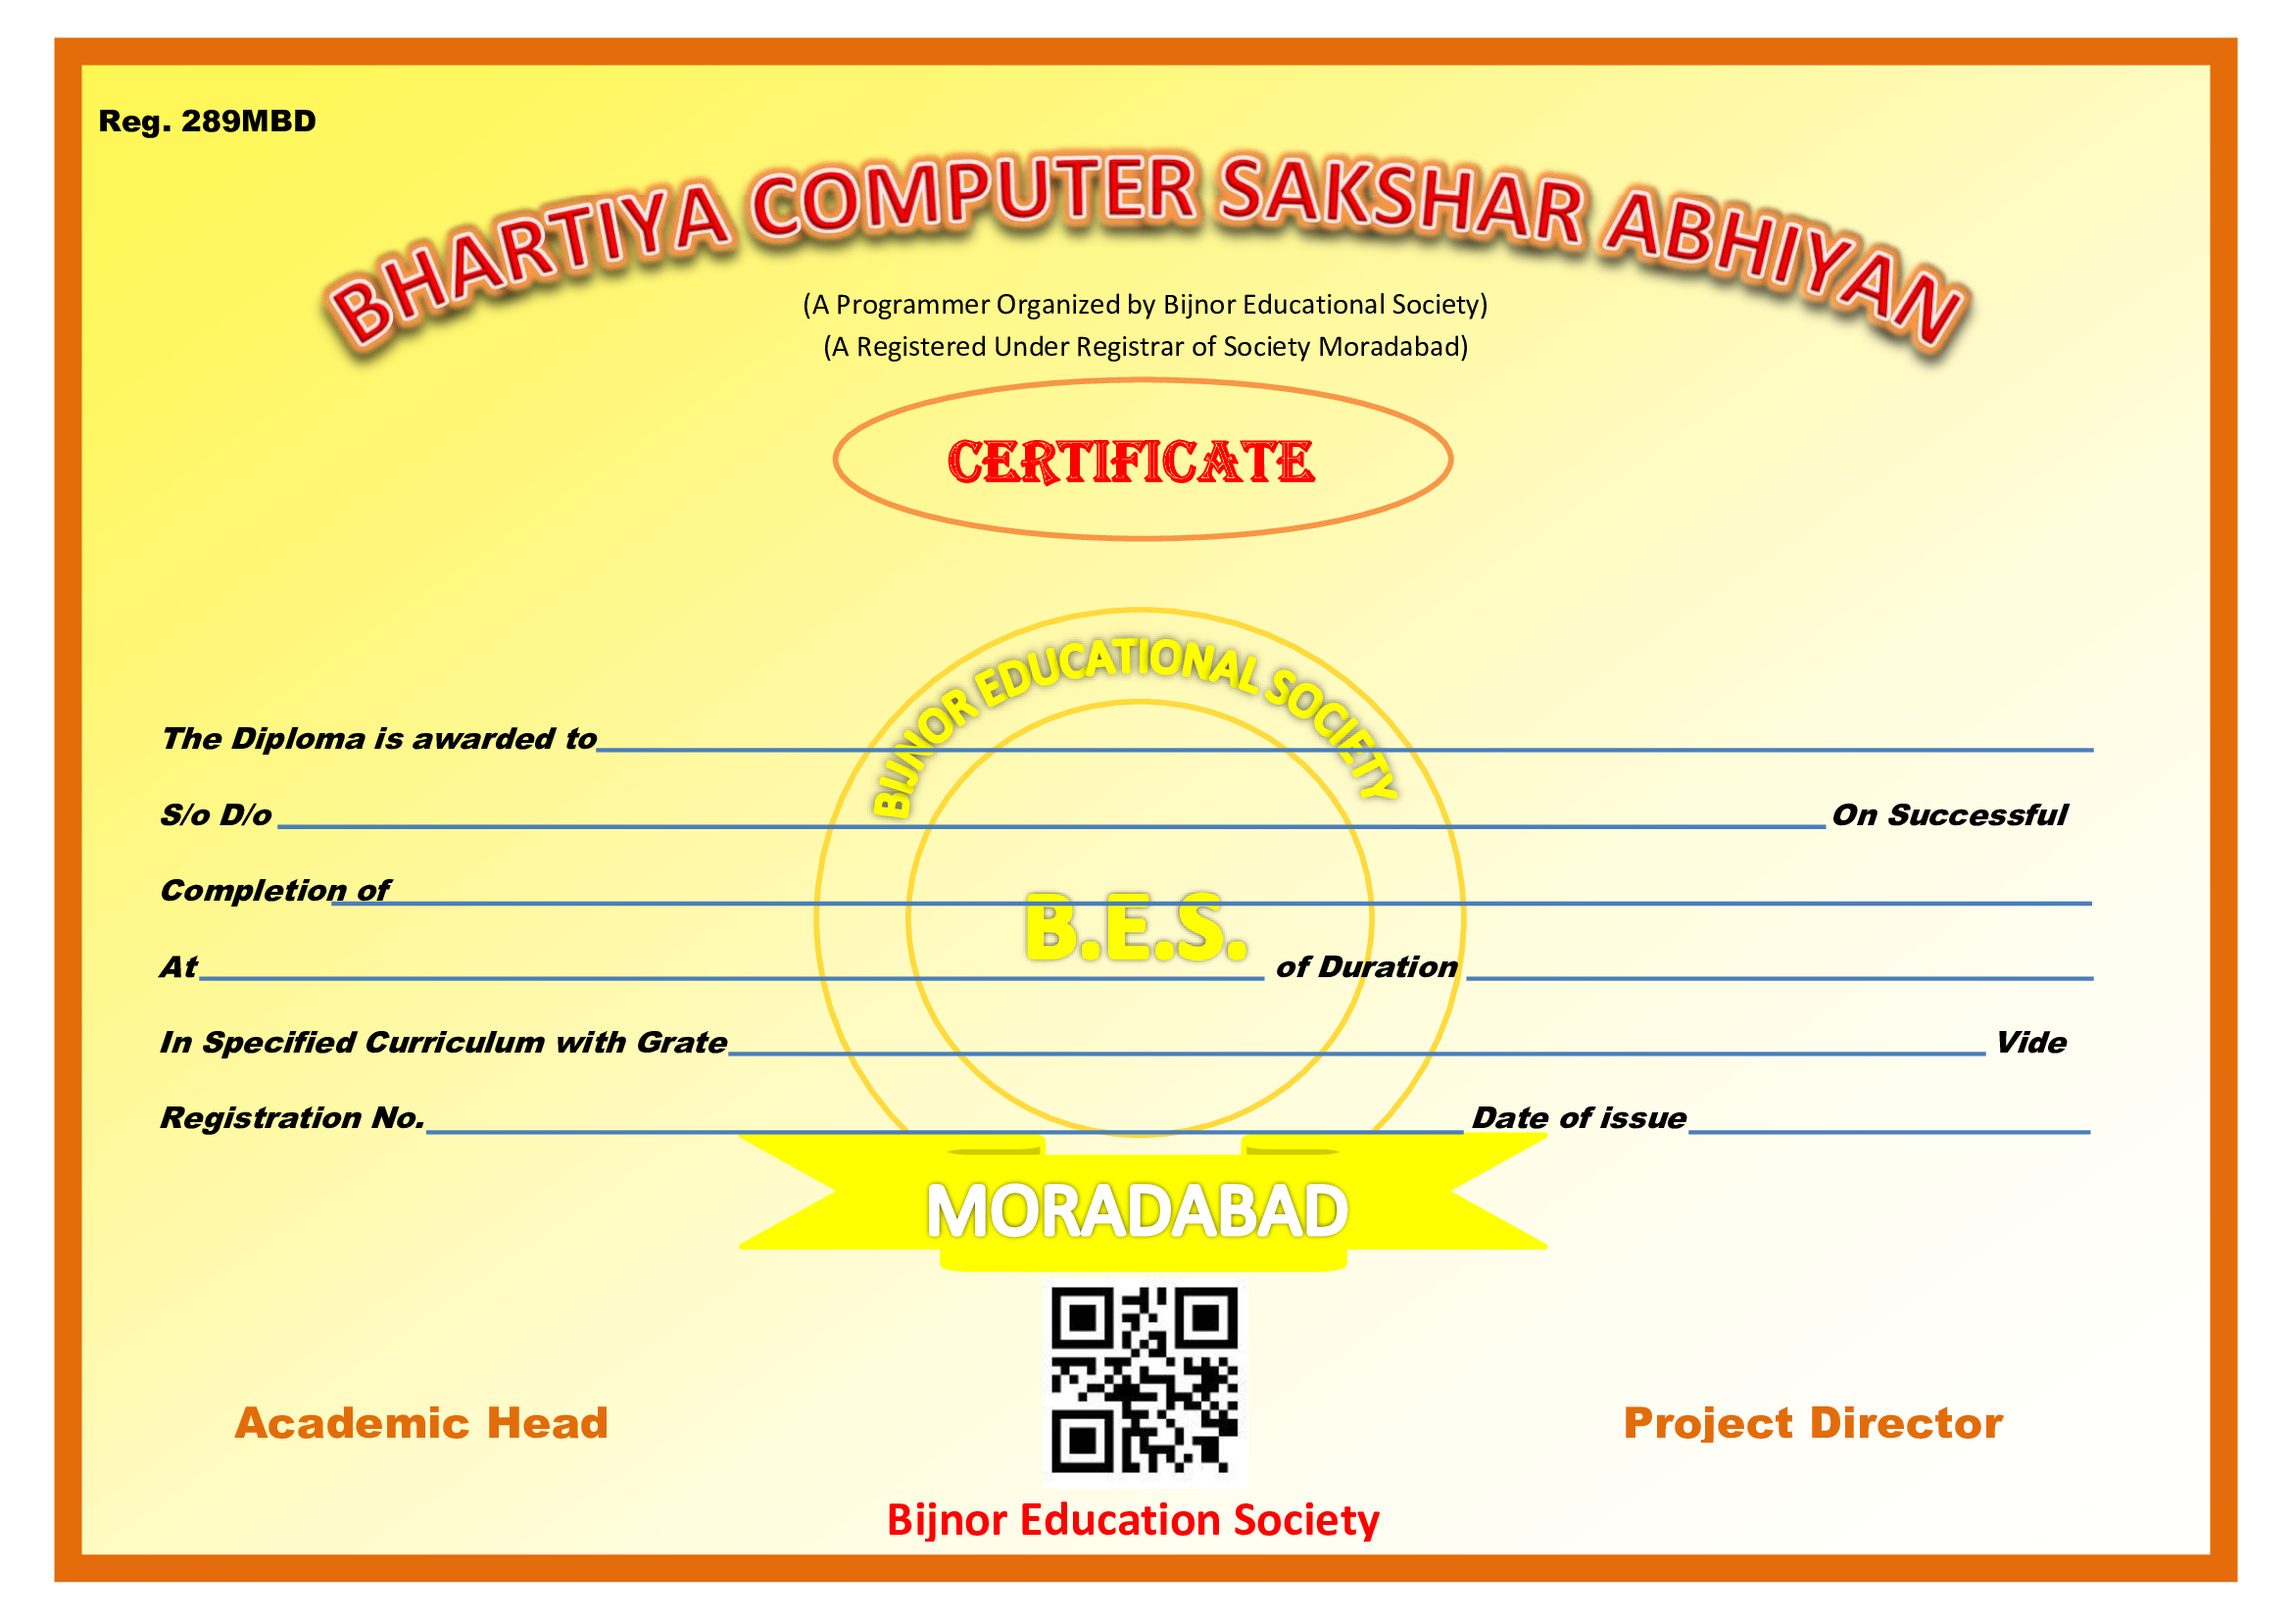
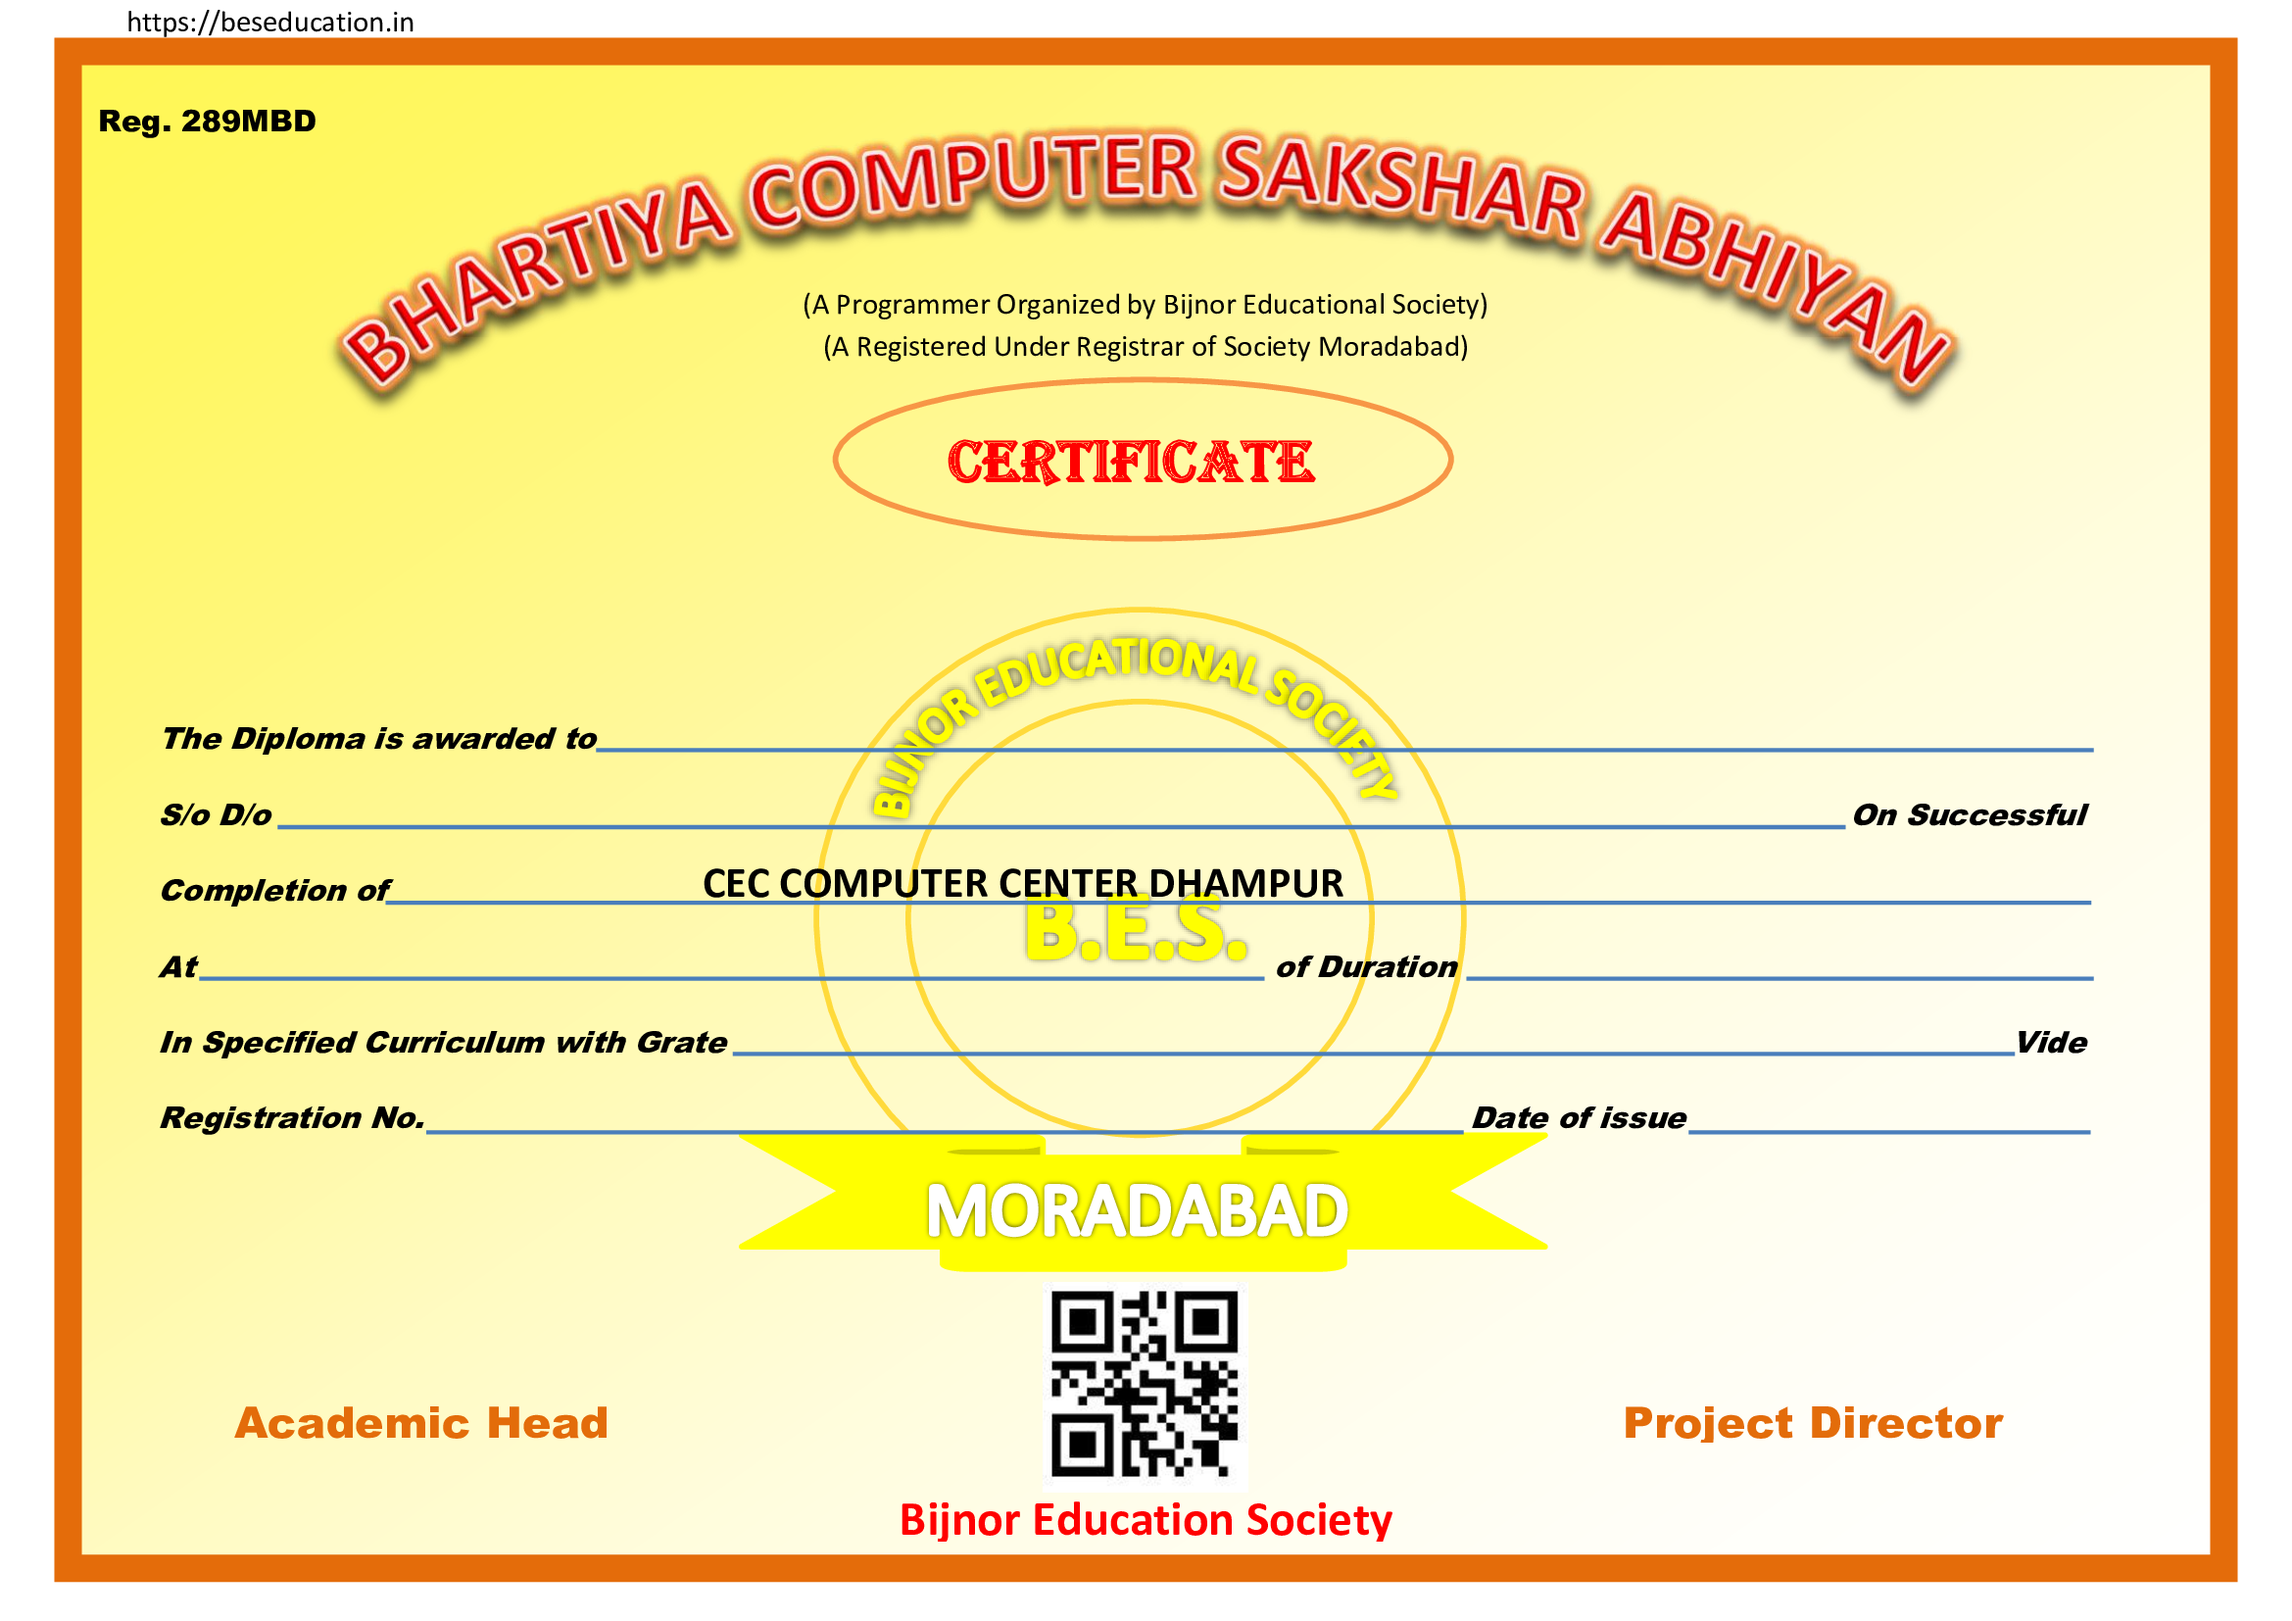
fixed some certificate problem

diff --git a/src/admin/CertificatePage.jsx b/src/admin/CertificatePage.jsx
@@ -45,22 +45,17 @@ export default function CertificatePage() {
         box-sizing: border-box;
           padding: 20px;
       ">
-        <div style="
-          position: absolute;
-          inset: 0;
-          padding: 60px;
-          font-size: 18px;
-          line-height: 1.6;
-          color: black;
-        ">
-          <p>The Diploma is awarded to <strong>${data.name}</strong> on successful completion of <strong>${data.course}</strong>.</p>
-          <p>S/o D/o: <strong>${data.fatherName}</strong></p>
-          <p>At: <strong>${data.center || "CEC COMPUTER CENTER DHAMPUR"}</strong></p>
-          <p>Duration: <strong>${data.duration}</strong></p>
-          <p>Grade: <strong>${data.grade}</strong></p>
-          <p>Registration No: <strong>${data.regNo || id}</strong></p>
-          <p>Date of Issue: <strong>${new Date(data.issueDate).toLocaleDateString("en-GB")}</strong></p>
-        </div>
+        <div style="position: absolute; top: 257px; left: 400px; font-size: 22px; font-weight: bold; font-family: 'Arial Narrow Bold'">${data.name}</div>
+
+        <div style="position: absolute; top: 344px; left: 500px; font-size: 22px; font-weight: bold;">${data.father_name}</div>
+
+        <div style="position: absolute; top: 341px; right: 165px; font-size: 22px; font-weight: bold;">${data.duration}</div>
+
+        <div style="position: absolute; bottom: 206px; left: 435px; font-size: 22px; font-weight: bold" }}>${data.grade}</div>
+
+        <div style="position: absolute; bottom: 179px; left: 300px; font-size: 22px; font-weight: bold;">${data.regNo || id}MBD/11907</div>
+
+        <div style="position: absolute; bottom: 179px; right: 95px; font-size: 22px; font-weight: bold;">${new Date(data.issue_date).toLocaleDateString("en-GB")}</div>
       </div>
     `;
 
@@ -107,7 +102,7 @@ export default function CertificatePage() {
 
   return (
     <div className="p-4">
-      <div className="mt-6 absolute right-[180px] bottom-[50px]">
+      <div className="mt-6 absolute right-[180px] bottom-[100px]">
         <button
           onClick={handlePrint}
           className="bg-blue-600 text-white px-4 py-2 rounded hover:bg-blue-700"
@@ -130,22 +125,13 @@ export default function CertificatePage() {
           boxShadow: "0 0 10px rgba(0,0,0,0.2)",
         }}
       >
-        {/* <div className="absolute inset-0 p-10 text-lg leading-relaxed text-black">
-          <p><strong>{data.name}</strong><strong>{data.course}</strong>.</p>
-          <p><strong>{data.fatherName} veer singh</strong></p>
-          <p><strong>{data.center || "CEC COMPUTER CENTER DHAMPUR"}</strong></p>
-          <p><strong>{data.duration}</strong></p>
-          <p><strong>{data.grade}</strong></p>
-          <p><strong>{data.regNo || id}</strong></p>
-          <p><strong>{new Date(data.issueDate).toLocaleDateString("en-GB")}</strong></p>
-        </div> */}
-        <div style={{ position: "absolute", top: "85px", left: "80px", fontSize: "16px", fontWeight: "bold" }}>{data.name}</div>
-        <div style={{ position: "absolute", top: "115px", left: "80px", fontSize: "16px", fontWeight: "bold" }}>{data.father_name}</div>
-        <div style={{ position: "absolute", top: "145px", left: "80px", fontSize: "16px", fontWeight: "bold" }}>{data.center || "CEC COMPUTER CENTER DHAMPUR"}</div>
-        <div style={{ position: "absolute", top: "175px", left: "80px", fontSize: "16px", fontWeight: "bold" }}>{data.duration}</div>
-        <div style={{ position: "absolute", top: "205px", left: "80px", fontSize: "16px", fontWeight: "bold" }}>{data.grade}</div>
-        <div style={{ position: "absolute", top: "235px", left: "80px", fontSize: "16px", fontWeight: "bold" }}>{data.regNo || id}</div>
-        <div style={{ position: "absolute", top: "265px", left: "80px", fontSize: "16px", fontWeight: "bold" }}>{new Date(data.issue_date).toLocaleDateString("en-GB")}</div>
+        <div style={{ position: "absolute", top: "257px", left: "400px", fontSize: "16px", fontWeight: "bold" }}>{data.name}</div>
+        <div style={{ position: "absolute", top: "285px", left: "230px", fontSize: "16px", fontWeight: "bold" }}>{data.father_name}</div>
+        {/* <div style={{ position: "absolute", top: "145px", left: "80px", fontSize: "16px", fontWeight: "bold" }}>{data.center || "CEC COMPUTER CENTER DHAMPUR"}</div> */}
+        <div style={{ position: "absolute", top: "341px", right: "165px", fontSize: "16px", fontWeight: "bold" }}>{data.duration}</div>
+        <div style={{ position: "absolute", bottom: "206px", left: "435px", fontSize: "16px", fontWeight: "bold" }}>{data.grade}</div>
+        <div style={{ position: "absolute", bottom: "179px", left: "300px", fontSize: "16px", fontWeight: "bold" }}>{data.regNo || id}MBD/11907</div>
+        <div style={{ position: "absolute", bottom: "179px", right: "95px", fontSize: "16px", fontWeight: "bold" }}>{new Date(data.issue_date).toLocaleDateString("en-GB")}</div>
       </div>
     </div>
   );

diff --git a/src/admin/CertificateForm.jsx b/src/admin/CertificateForm.jsx
@@ -23,29 +23,46 @@ export default function CertificateForm() {
         setFormData((prev) => ({ ...prev, [name]: value }));
     };
 
+    // const handleSubmit = async (e) => {
+    //     e.preventDefault();
+    //     try {
+    //         const res = await axios.post("http://localhost:5000/api/certificates", formData, {
+    //             headers: {
+    //                 Authorization: `Bearer ${localStorage.getItem("adminToken")}`,
+    //             },
+    //         });
+    //         const certificateId = res.data.id;
+    //         if (certificateId) {
+    //             navigate(`/admin/certificate/${certificateId}`);
+    //         } else {
+    //             alert("Certificate generated but ID missing in response.");
+    //         }
+    //     } catch (err) {
+    //         console.error(err);
+    //         alert("Failed to generate certificate");
+    //     }
+    // };
     const handleSubmit = async (e) => {
-        e.preventDefault();
-        try {
-            const res = await axios.post("http://localhost:5000/api/certificates", formData, {
-                headers: {
-                    Authorization: `Bearer ${localStorage.getItem("adminToken")}`,
-                },
-            });
-            // console.log("Sending data:", formData);
+  e.preventDefault();
+  try {
+    const res = await axios.post("http://localhost:5000/api/certificates", formData, {
+      headers: {
+        Authorization: `Bearer ${localStorage.getItem("adminToken")}`,
+      },
+    });
 
+    const certificateId = res.data.id;
+    if (certificateId) {
+      navigate(`/admin/certificate/${certificateId}`);
+    } else {
+      alert("Certificate generated but ID missing in response.");
+    }
+  } catch (err) {
+    console.error(err);
+    alert("Failed to generate certificate");
+  }
+};
 
-            // Navigate to printable certificate page using returned ID
-            const certificateId = res.data.id;
-            if (certificateId) {
-                navigate(`/admin/certificate/${certificateId}`);
-            } else {
-                alert("Certificate generated but ID missing in response.");
-            }
-        } catch (err) {
-            console.error(err);
-            alert("Failed to generate certificate");
-        }
-    };
 
     return (
         <div className="flex">

diff --git a/src/components/Navbar.jsx b/src/components/Navbar.jsx
@@ -11,7 +11,7 @@ export default function Navbar() {
           <Link to="/courses" className="hover:underline">Courses</Link>
           {/* <Link to="/admission" className="hover:underline">Admission</Link> */}
           <Link to="/contact" className="hover:underline">Contact</Link>
-          <Link to="/admin" className="hover:underline">Admin</Link>
+          <Link to="/admin-login" className="hover:underline">Admin</Link>
 
         </div>
       </div>

diff --git a/src/App.jsx b/src/App.jsx
@@ -26,8 +26,6 @@ function App() {
             <Route path="/admin/generate-certificate" element={<CertificateForm />} />
             <Route path="/admin/certificate/:id" element={<CertificatePage />} />
 
-            {/* <Route path="/admin/add-student" element={<AdminAddStudent />} /> */}
-
             <Route
               path="/admin/add-student"
               element={
